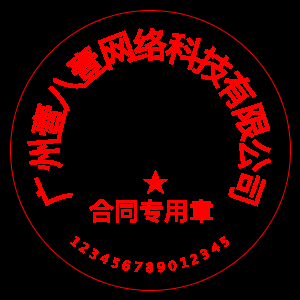
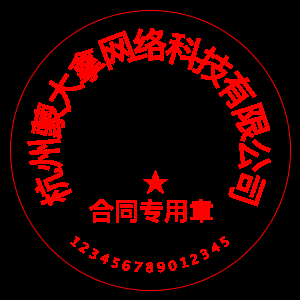
last version

Changed region(s): [[0.12, 0.15, 0.36, 0.48], [0.12, 0.54, 0.24, 0.69], [0.09, 0.36, 0.12, 0.42]]

diff --git a/src/main/java/com/mqz/seal/VNobody/Main.java b/src/main/java/com/mqz/seal/VNobody/Main.java
@@ -24,7 +24,7 @@ public class Main {
         //mainFont.setFontSize(35);
         //mainFont.setFontSpace(35.0);
         /**************************************************/
-        mainFont.setFontText("广州壹八壹网络科技有限公司");
+        mainFont.setFontText("杭州蒙大拿网络科技有限公司");
         mainFont.setFontSize(35);
         mainFont.setFontSpace(30.0);
         /**************************************************/
